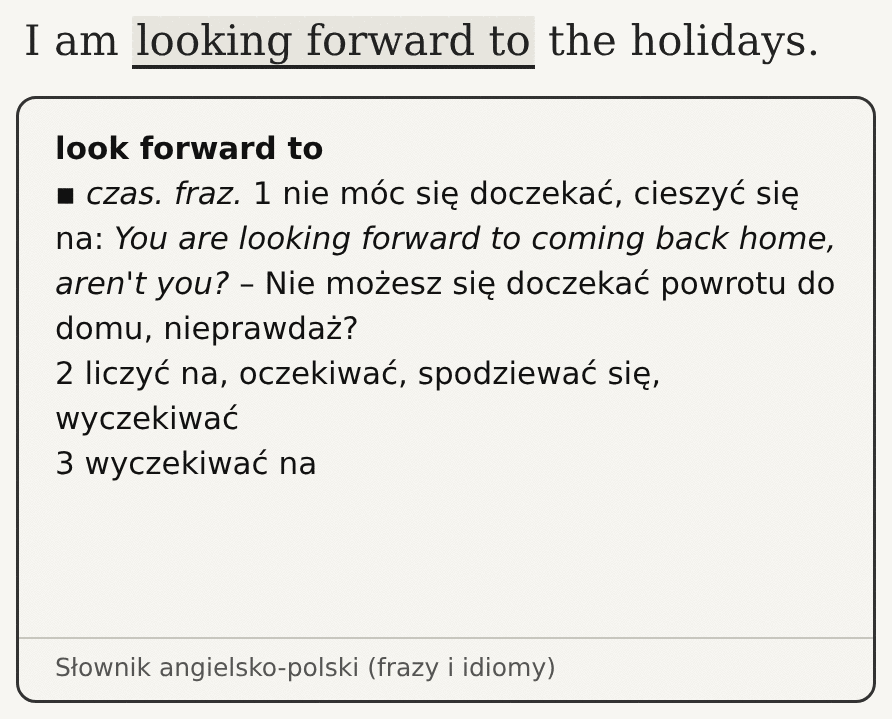
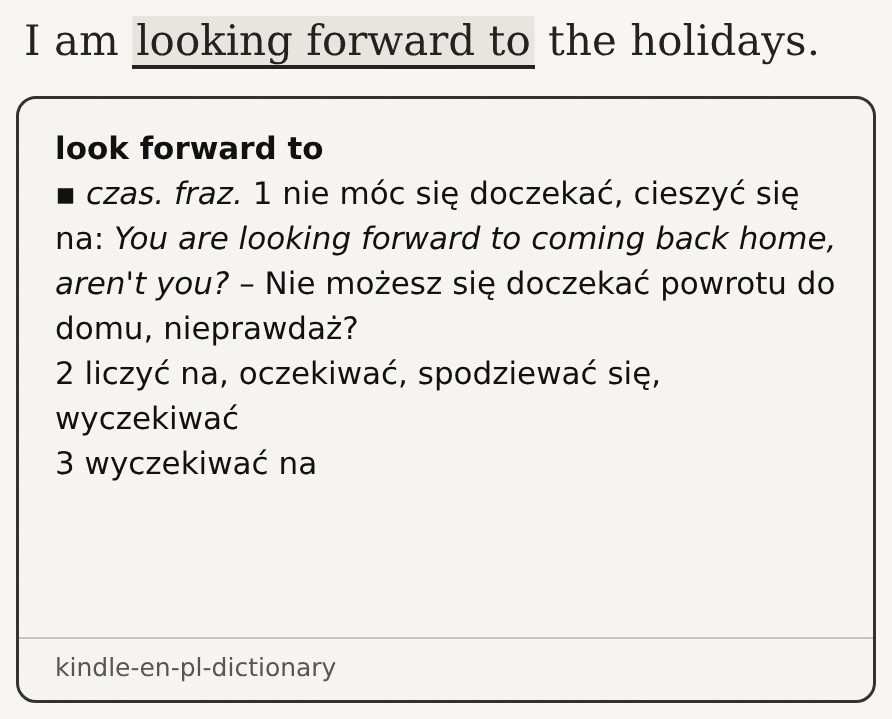
Version in the dictionary name on the Kindle
The Kindle now shows "kindle-en-pl-dictionary v0.1.1" (the release tag, set
by CI as DICT_VERSION; local builds say "dev"). The licence page shows the
version next to the date, and the README images use the new name.

Changed region(s): [[0.0605, 0.9179, 0.6357, 0.9485]]

diff --git a/tools/build.py b/tools/build.py
@@ -538,8 +538,10 @@ def write_package(outdir, title, entries_html, meta):
     flush()
 
     today = meta["date"]
+    version = meta["version"].removeprefix("v")
+    version_line = f"Wersja z dnia {today}." if version == "dev" else f"Wersja {esc(version)} z dnia {today}."
     with open(os.path.join(outdir, "usage.html"), "w", encoding="utf-8") as f:
-        f.write(XHTML_HEAD.format(title="Jak korzystać ze słownika") + f"""<h1>{esc(title)}</h1>
+        f.write(XHTML_HEAD.format(title="Jak korzystać ze słownika") + f"""<h1>Słownik angielsko-polski (frazy i idiomy)</h1>
 <p>Słownik angielsko-polski oparty na otwartych danych z polskiego i angielskiego Wikisłownika (pl.wiktionary.org, en.wiktionary.org).</p>
 <h2>Jak korzystać ze słownika</h2>
 <p><b>Pojedyncze słowa.</b> Przytrzymaj palec na słowie. Formy odmienione, np. <i>gave</i>, <i>went</i> czy <i>children</i>, prowadzą do hasła z formą podstawową.</p>
@@ -561,7 +563,7 @@ def write_package(outdir, title, entries_html, meta):
 <p>Dane z obu serwisów wyodrębniono narzędziem Wiktextract (kaikki.org): Tatu Ylonen, „Wiktextract: Wiktionary as Machine-Readable Structured Data”, LREC 2022.</p>
 <h2>Zmiany</h2>
 <p>Hasła z obu źródeł zostały wybrane, połączone i na nowo sformatowane. Dodano angielskie formy odmienione, odsyłacze (np. <i>saw</i> → <i>see</i>), listy czasowników frazowych i idiomów oraz poprawki błędów w polskich przykładach.</p>
-<p>Wersja z dnia {today}. Strona projektu: https://github.com/maciejkaniewski/kindle-en-pl-dictionary (kod źródłowy na licencji MIT).</p>
+<p>{version_line} Strona projektu: https://github.com/maciejkaniewski/kindle-en-pl-dictionary (kod źródłowy na licencji MIT).</p>
 <p>Projekt nie jest powiązany z Wikimedia Foundation ani z Amazon. Wiktionary i Wikisłownik są znakami towarowymi Wikimedia Foundation, a Kindle jest znakiem towarowym Amazon.com, Inc.</p>
 </body></html>
 """)
@@ -627,7 +629,8 @@ def main():
     ap = argparse.ArgumentParser(description=__doc__, formatter_class=argparse.RawDescriptionHelpFormatter)
     ap.add_argument("records", help="records JSONL from extract.py")
     ap.add_argument("--outdir", required=True, help="directory for the OPF/XHTML source")
-    ap.add_argument("--title", default="Słownik angielsko-polski (frazy i idiomy)")
+    ap.add_argument("--version", default="dev", help="release version, e.g. v0.1.1 (shown on the licence page)")
+    ap.add_argument("--title", help="title shown on the Kindle (default: kindle-en-pl-dictionary VERSION)")
     ap.add_argument("--identifier", default="kindle-en-pl-dictionary")
     ap.add_argument("--publisher", default="kindle-en-pl-dictionary")
     ap.add_argument("--corrections", default=os.path.join(os.path.dirname(__file__), "..", "corrections", "polish.tsv"),
@@ -649,8 +652,9 @@ def main():
     htmls = [render_entry(final[hw], final, phrasal_of, expr_of, by_lower)
              for hw in sorted(final, key=lambda h: (h.lower(), h))]
     meta = {"date": datetime.date.today().isoformat(), "identifier": args.identifier,
-            "publisher": args.publisher}
-    opf = write_package(args.outdir, args.title, htmls, meta)
+            "publisher": args.publisher, "version": args.version}
+    title = args.title or f"kindle-en-pl-dictionary {args.version}"
+    opf = write_package(args.outdir, title, htmls, meta)
 
     n_forms = sum(len(e.forms) for e in final.values())
     print(f"entries: {len(final)}  inflected forms: {n_forms}  collision/form entries: {collisions}  "
@@ -659,6 +663,7 @@ def main():
 
     stats = {
         "date": meta["date"],
+        "version": args.version,
         "entries": len(final),
         "inflected_forms": n_forms,
         "phrasal_verbs": sum(1 for e in final.values() if e.phrasal),

diff --git a/tools/render_previews.py b/tools/render_previews.py
@@ -63,7 +63,7 @@ def case_html(sentence, selected, entry):
             + html.escape(sentence[i + len(selected):]))
     return (f'<div class="case"><div class="book">{book}</div><div class="card">'
             f'<div class="entry">{entry}</div>'
-            f'<div class="foot">Słownik angielsko-polski (frazy i idiomy)</div></div></div>')
+            f'<div class="foot">kindle-en-pl-dictionary</div></div></div>')
 
 
 def render(chrome, page, png, width, tmp):

diff --git a/CONTRIBUTING.md b/CONTRIBUTING.md
@@ -70,4 +70,6 @@ How the build works:
 
 GitHub Actions builds the dictionary and runs the tests on every push. Pushing
 a tag such as `v0.1.0` publishes a release with the dictionary and the test
-book attached.
+book attached. The tag becomes part of the dictionary name on the Kindle
+(`kindle-en-pl-dictionary v0.1.0`); local builds are named
+`kindle-en-pl-dictionary dev` unless you run `make test DICT_VERSION=v0.1.0`.
